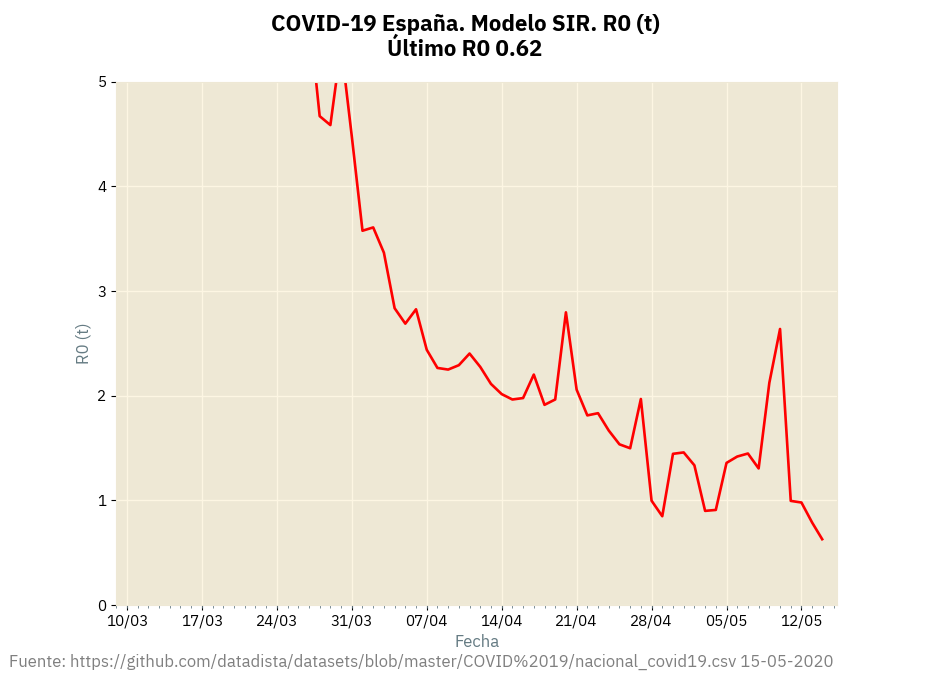
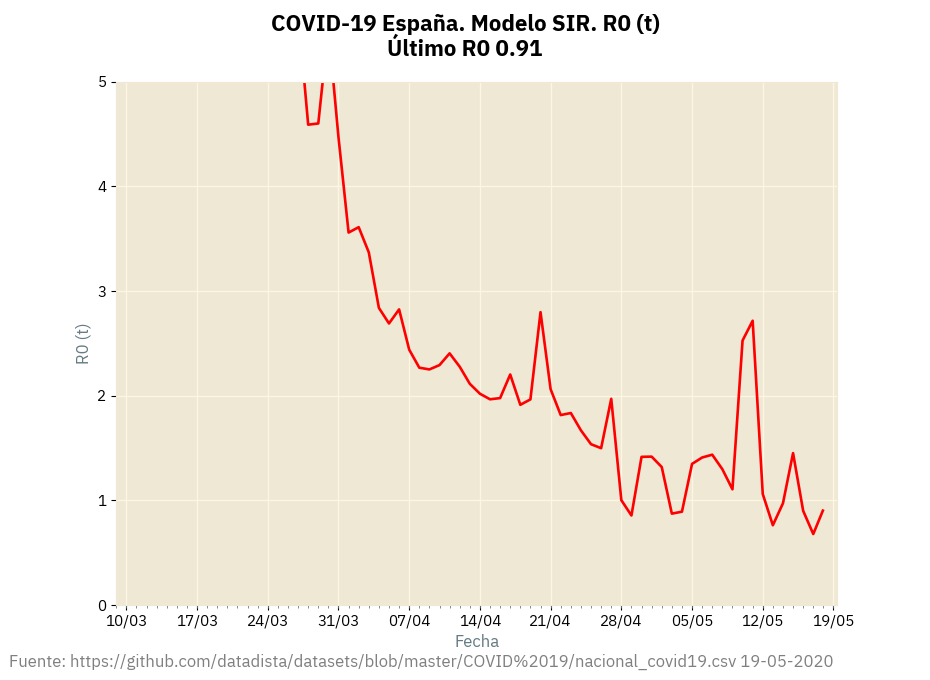
2020-05-19 update

diff --git a/sir3.py b/sir3.py
@@ -98,20 +98,17 @@ I = I - R
 DI = numpy.gradient(I)
 DR = numpy.gradient(R)
 
-R0 = (DI + DR)/DR
-# Las divisiones por cero indican un R0 grande
-R0[numpy.isnan(R0)] = 1000
-
-#DI = numpy.diff(I)
-#DR = numpy.diff(R)
-#x = x[1:]
-#
-#R0 = []
-#for i in range(0, len(DI)):
-#    if DR[i] == 0:
-#        R0.append(1000)
-#    else:
-#        R0.append((DI[i])/DR[i])
+# Si DR == 0 entonces el valor de R0 es indeterminado (0/0).
+# Podemos usar el último valor de R0, por ejemplo.
+R0 = []
+for i in range(0, len(DI)):
+    if DR[i] == 0:
+        if i == 0:
+            R0.append(1000)
+        else:
+            R0.append(R0[i-1])
+    else:
+        R0.append((DI[i] + DR[i])/DR[i])
 
 ## Preparar el gráfico
 pyplot.style.use('Solarize_Light2')
